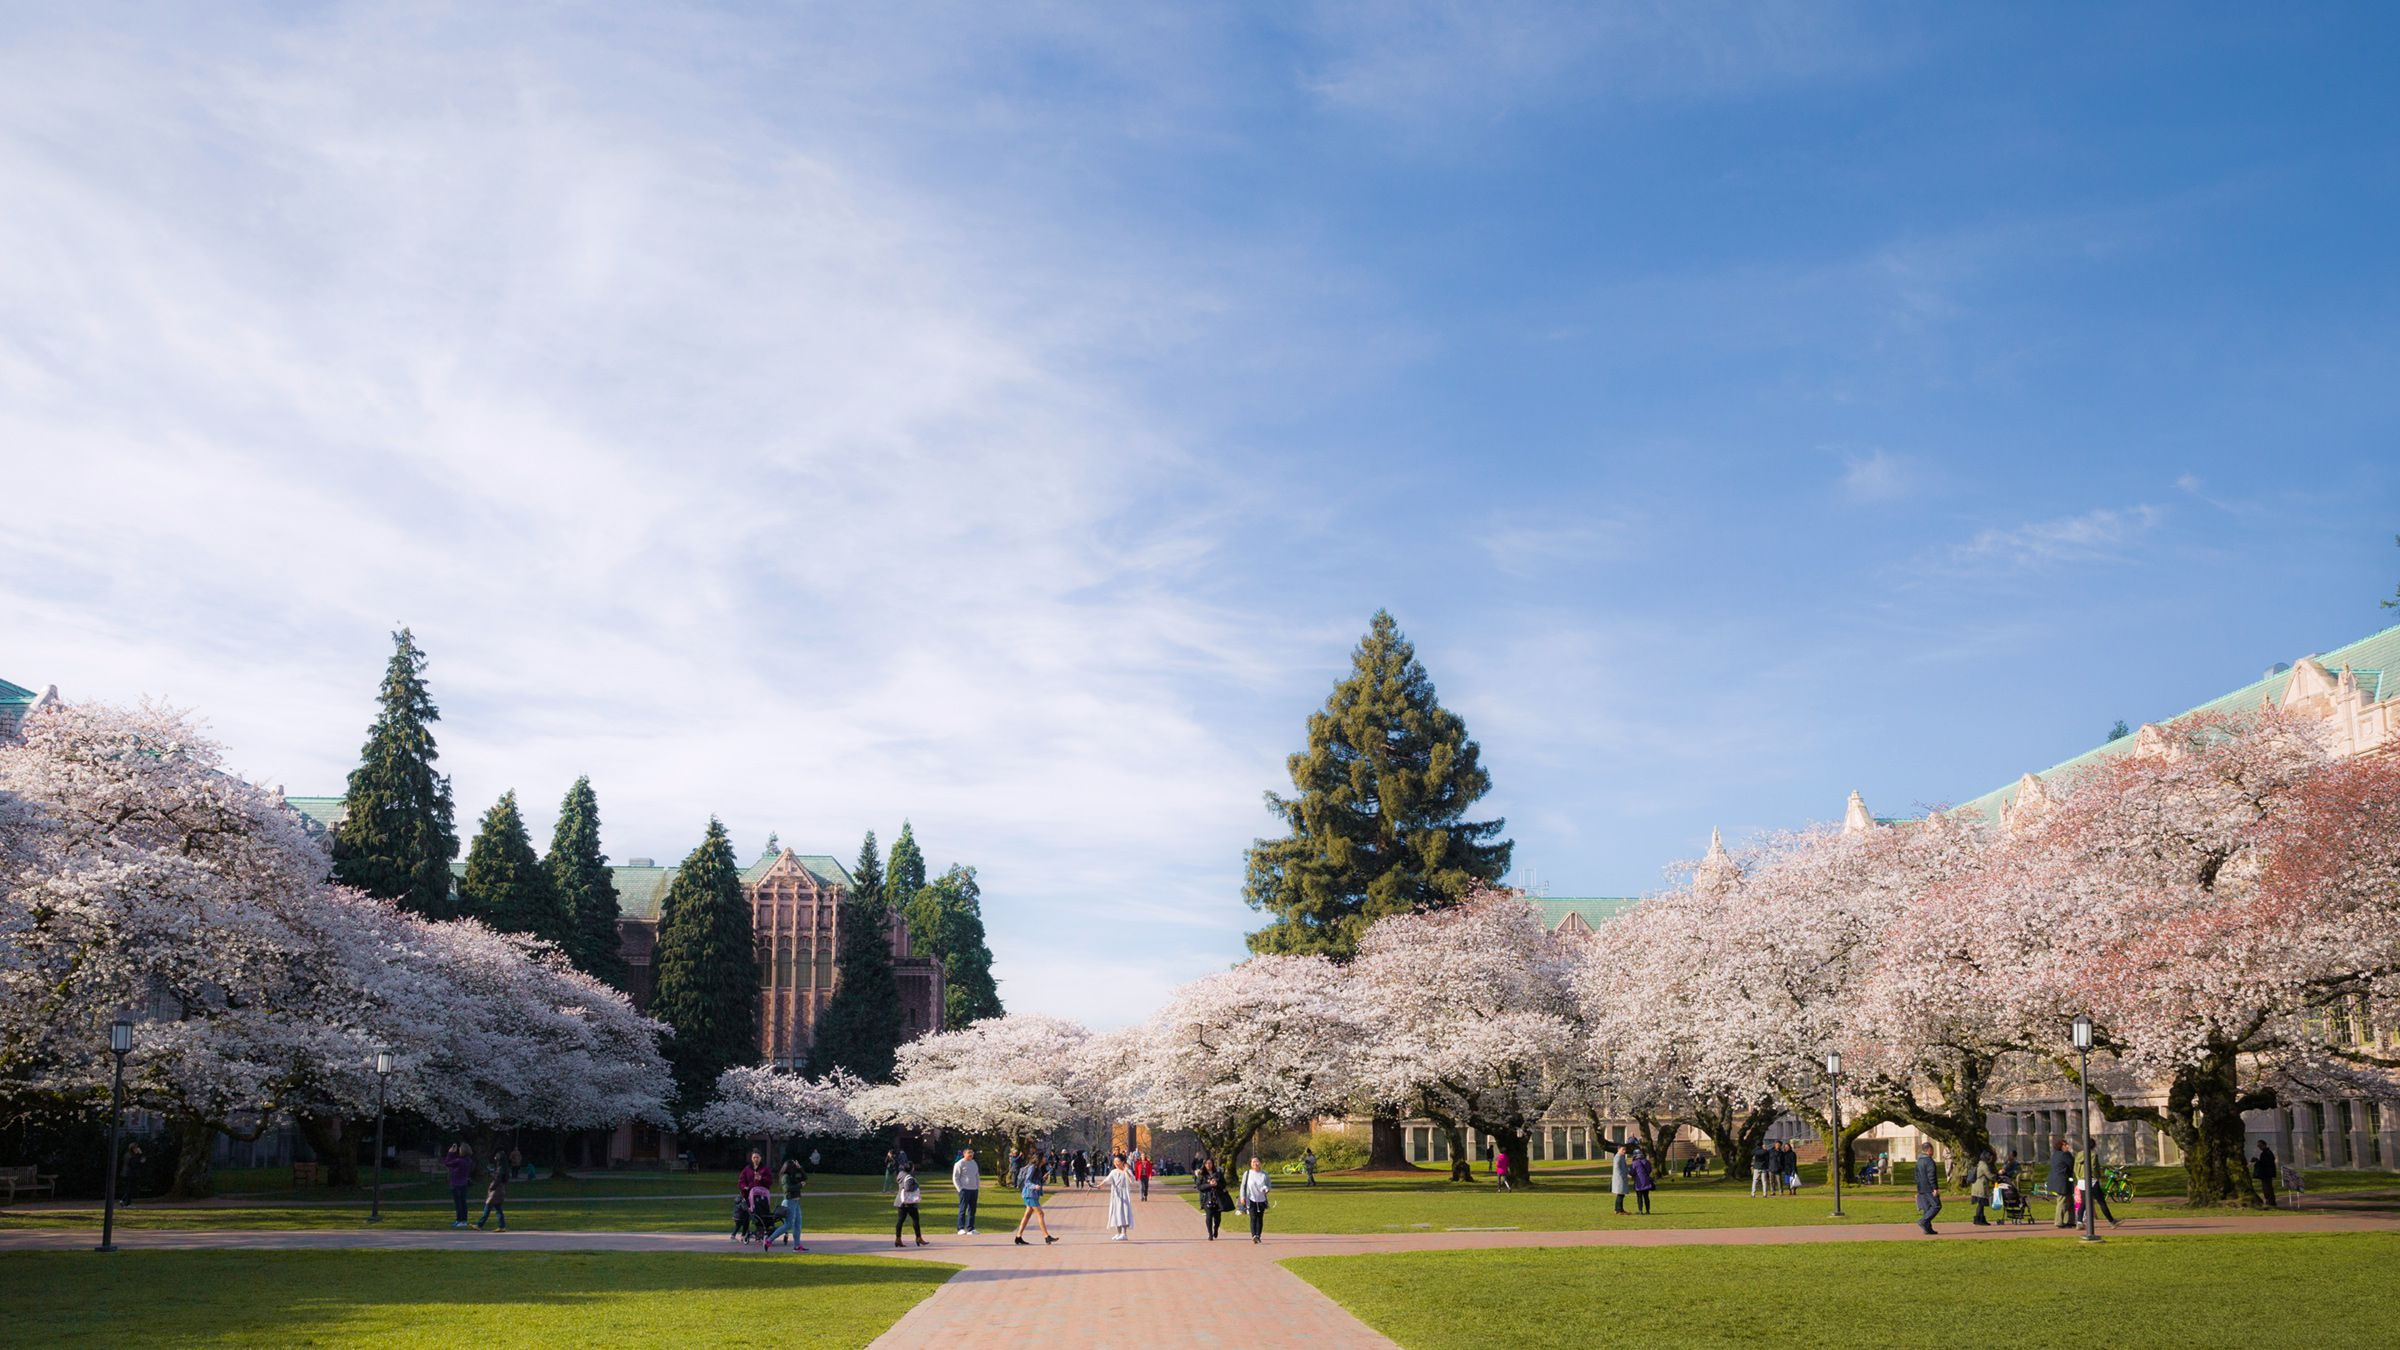
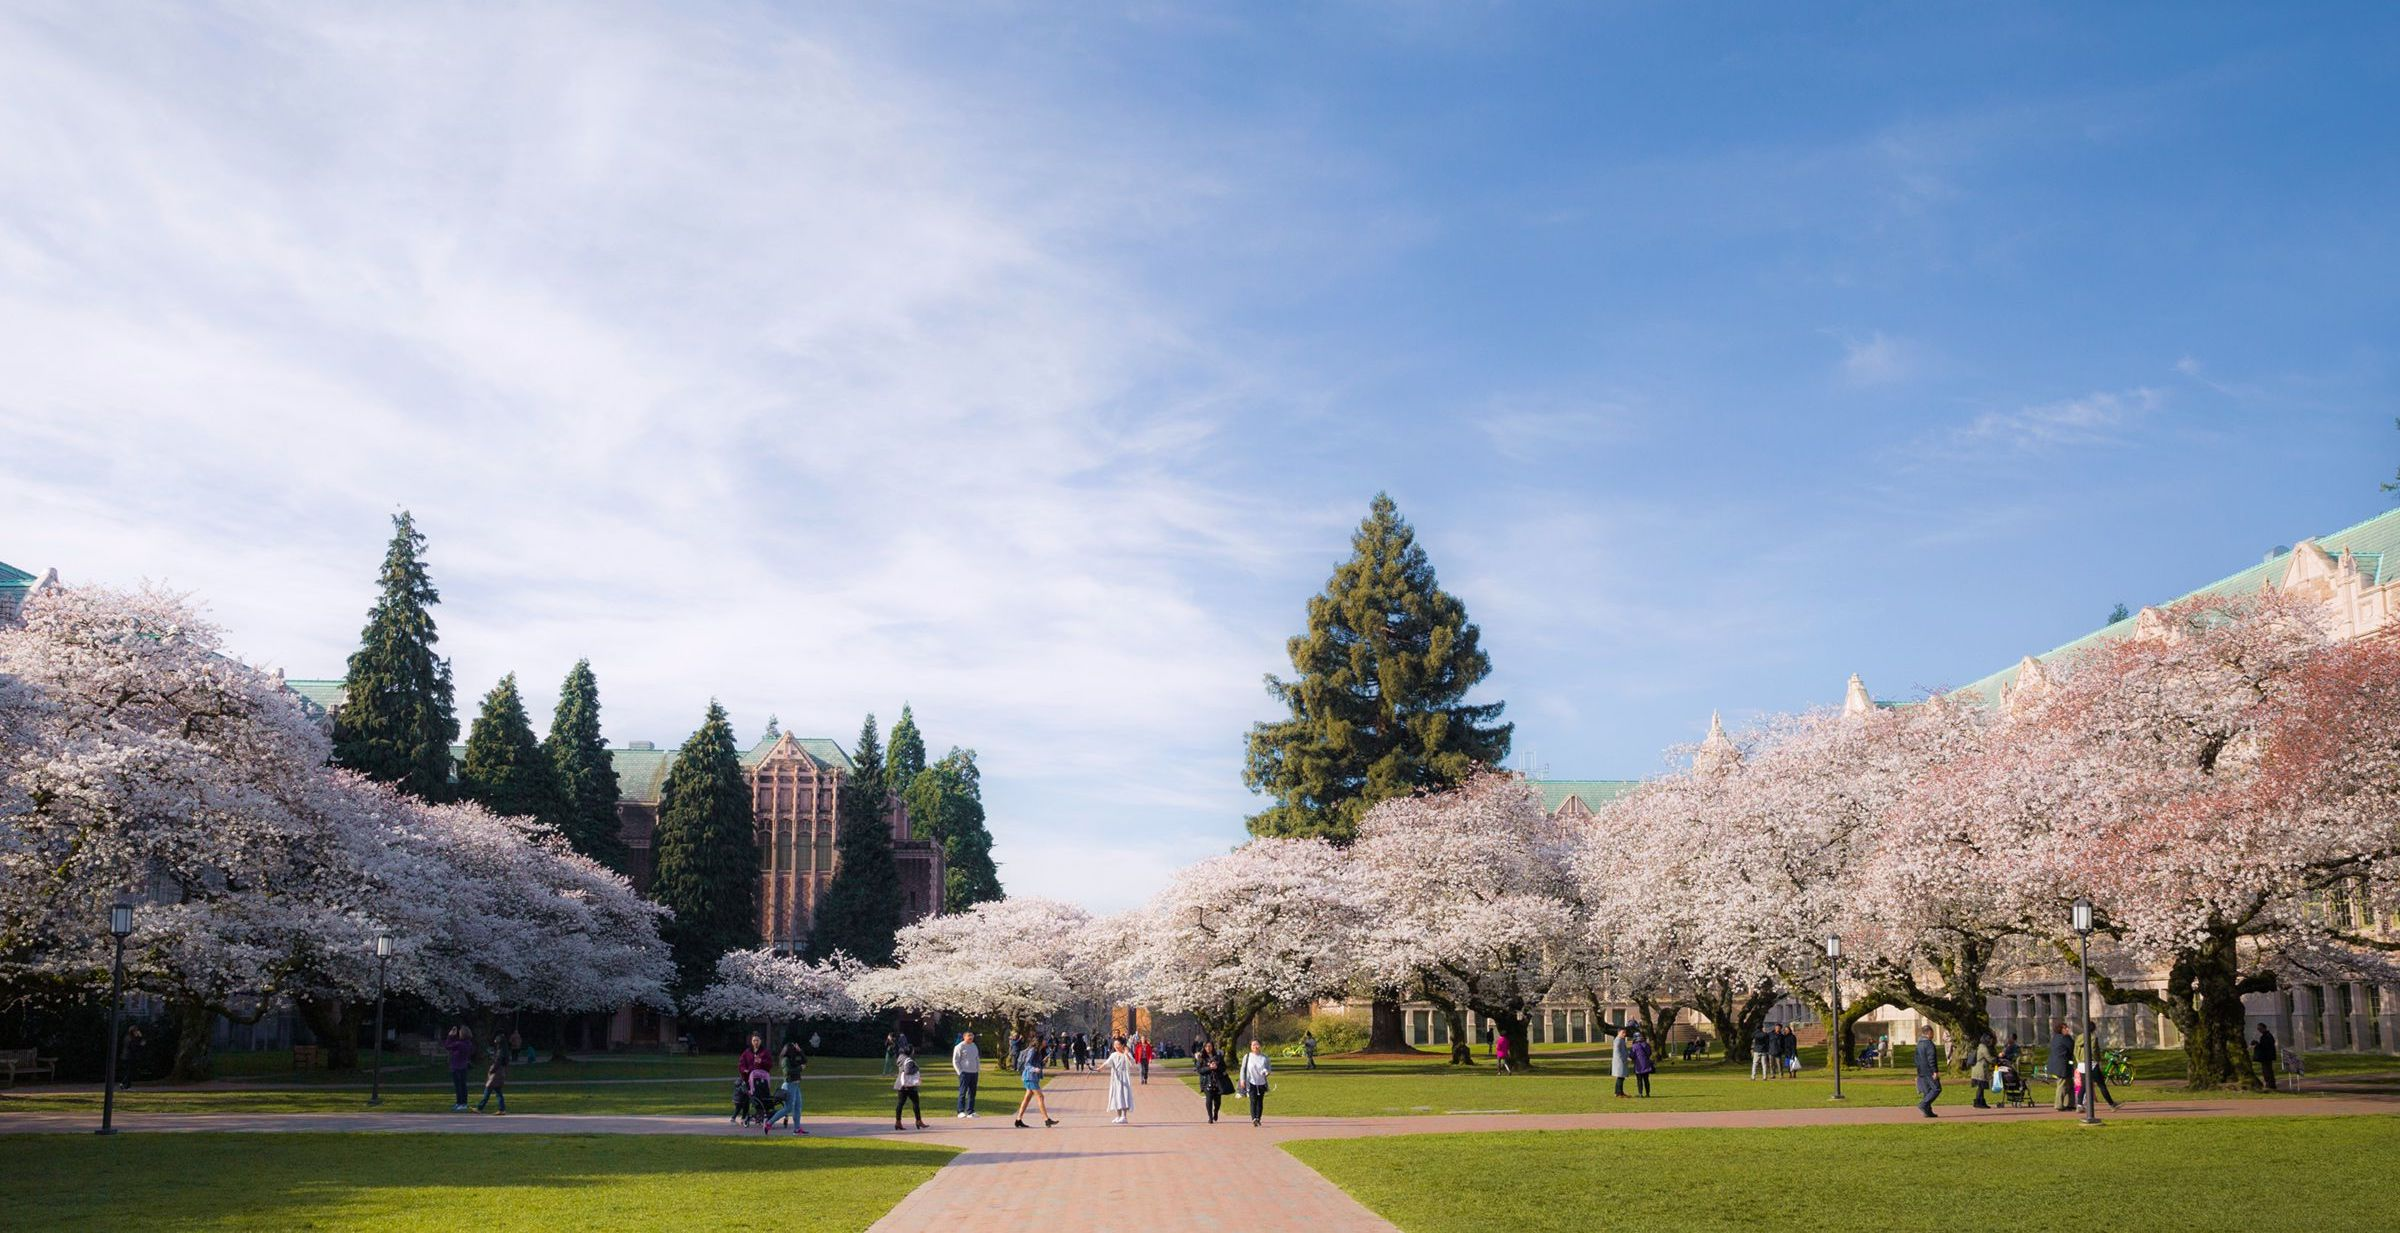
update background img and button links

diff --git a/home.html b/home.html
@@ -44,8 +44,8 @@
             <h1 class="page-title">HUSKY2HUSKY</h1>
 
             <div class="text-center">
-                <a href="#" class="btn btn-dark mt-auto">Login</a>
-                <a href="#" class="btn btn-outline-dark mt-auto">Sign Up</a>
+                <a href="student_signup.html" class="btn btn-dark mt-auto">Login</a>
+                <a href="student_application.html" class="btn btn-outline-dark mt-auto">Sign Up</a>
             </div>
     </div>
     </main>
